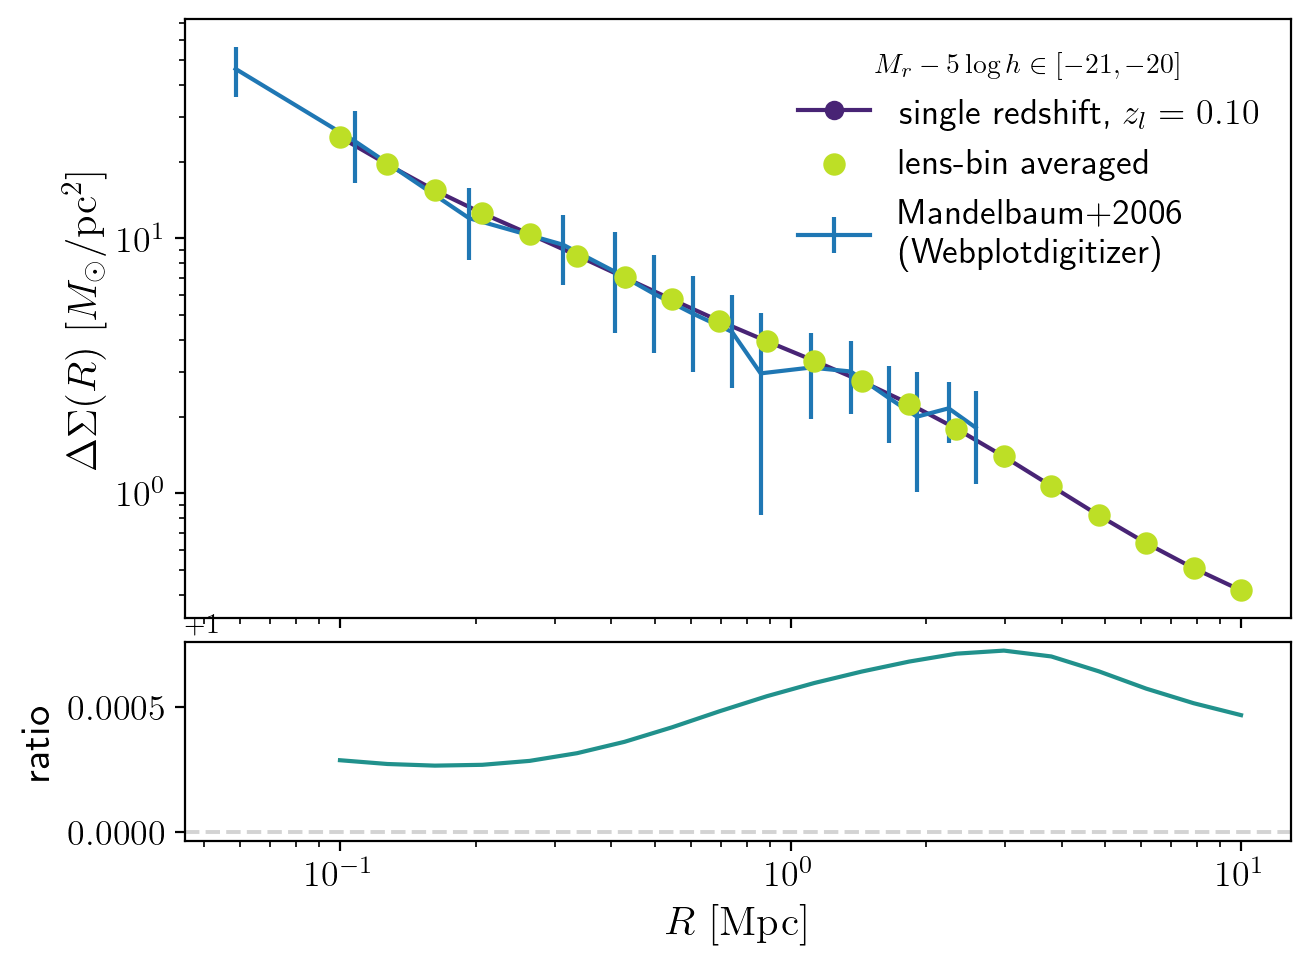
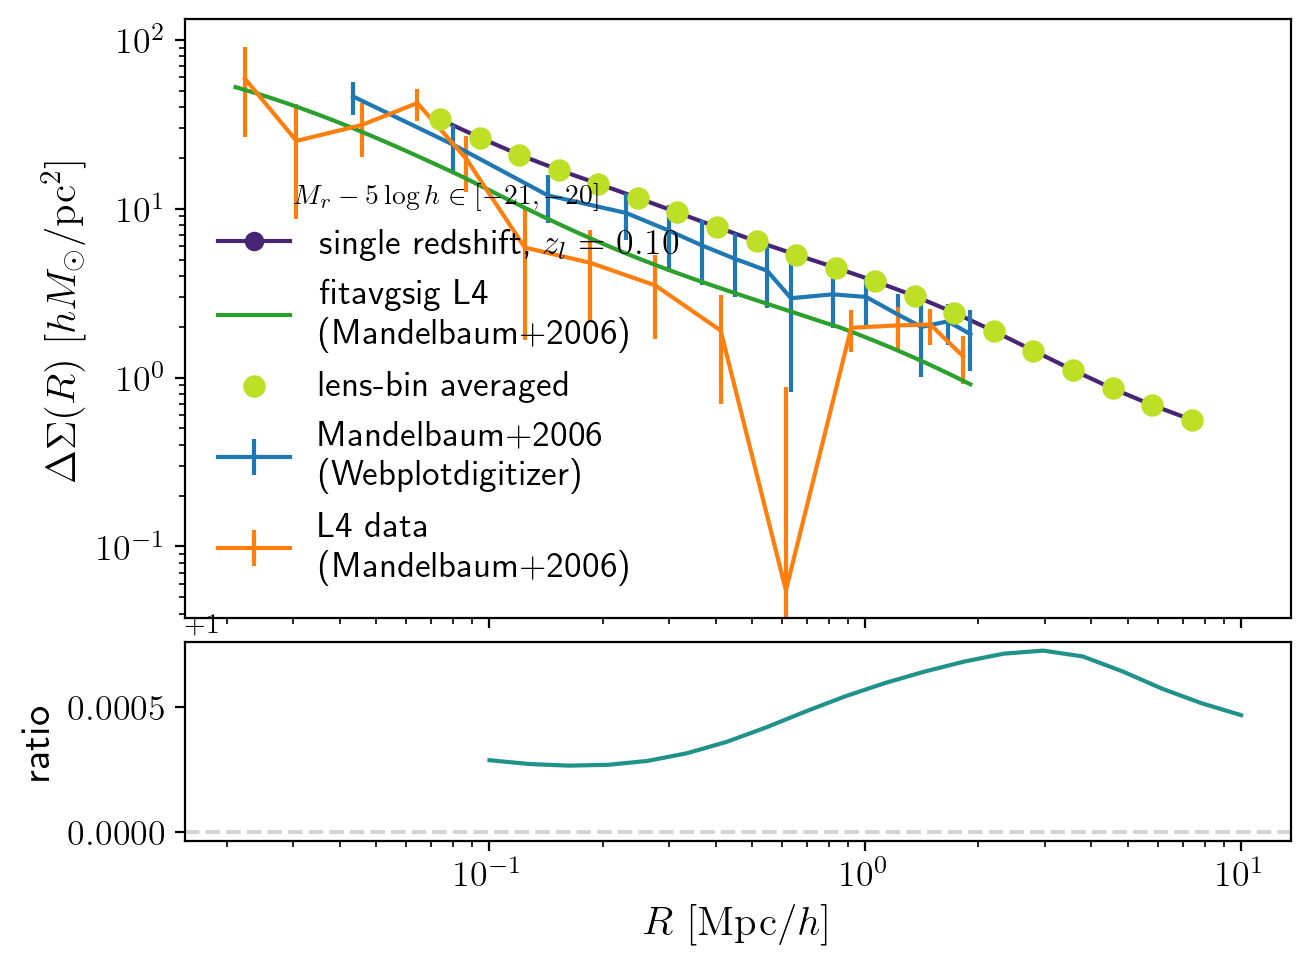
Documentation, benchmarking, modularisation

diff --git a/src/dsf/hod_cacciato.py b/src/dsf/hod_cacciato.py
@@ -1,22 +1,20 @@
 import numpy as np
 import pyccl as ccl
-from scipy.special import erf, gamma, gammaincc
+from scipy.special import erf
+
+from dsf.utils.special_func import safe_upper_inc_gamma
 
 __all__ = [
-    "safe_upper_gamma",
     "CacciatoHOD"
 ]
 
-@np.vectorize(excluded=["a"])
-def safe_upper_gamma(a, x):
-    if x <= 0 and a <= 0:
-        return np.inf
-    if a > 0:
-        return gammaincc(a, x) * gamma(a)
-    return (safe_upper_gamma(a + 1, x) - x**a * np.exp(-x)) / a
-
 class CacciatoHOD(ccl.halos.HaloProfileHOD):
     r"""
+    This class implements the galaxy-halo connection in the HOD framework based
+    on the Conditional Luminosity Function (CLF) model of Cacciato et al. 2013.
+    This framework is designed to model galaxy samples defined by luminosity
+    bins.
+    
     Args:
         mass_def: Halo mass definition (e.g., '200m' or a MassDef object).
 
@@ -65,13 +63,21 @@ class CacciatoHOD(ccl.halos.HaloProfileHOD):
     Additional nusance parameters in the CLF model:
 
     * **eta**: 
-      A multiplicative factor, as described in Cacciato+2013 for parent halo
-      concentration.
+      A multiplicative factor, as described in Cacciato+2013, which modifies
+      the parent halo concentration as follows:
+
+      .. math::
+
+          c_\mathrm{halo}(M) = (1+\eta) \times c_\mathrm{baseline}(M)
+
+      Here, :math:`c_\mathrm{baseline}` is the chosen c-M relation
+      which gets marginalised-over by `eta`. `eta` acts via the c-M wrapper class
+      passed above to the `concentration` parameter.
 
     * **R_s**: 
       A multiplicative factor, alters the concentration of the satellite
       distribution. R_s=1 corresponds to fiducial case, where satellites
-      density distr. follow the NFW profile of the parent halo.
+      density distribution follows the NFW profile of the parent halo.
 
     Note: 
         HODs are unitless. But the characteristic masses and luminosities hold
@@ -102,7 +108,7 @@ class CacciatoHOD(ccl.halos.HaloProfileHOD):
         # sample bin def
         log_L1, log_L2, 
         # hubble const
-        hval=0.739, 
+        h=0.739, 
         # CLF pars
         log_L0=9.95, log_M1=11.24, 
         gamma_1=3.18, gamma_2=0.245, 
@@ -118,7 +124,7 @@ class CacciatoHOD(ccl.halos.HaloProfileHOD):
         self._disable_vanilla_hod_parameters()
         
         # define inputs that don't change throughout the analysis.
-        self.hval = hval
+        self.h = h
         #self.cM = concentration #use if needed
         self.ns_independent = False
         # sample luminosity bin definition
@@ -152,9 +158,7 @@ class CacciatoHOD(ccl.halos.HaloProfileHOD):
 
     @log_L1.setter
     def log_L1(self, log_L1):
-        """
-        update faint end of sample luminosity bin log_L1
-        """
+        """Update faint end of sample luminosity bin log_L1"""
         self._log_L1 = log_L1
 
     @property
@@ -163,22 +167,23 @@ class CacciatoHOD(ccl.halos.HaloProfileHOD):
 
     @log_L2.setter
     def log_L2(self, log_L2):
-        """
-        update bright end of sample luminosity bin log_L2
-        """
+        """Update bright end of sample luminosity bin log_L2"""
         self._log_L2 = log_L2
 
     @property
-    def hval(self):
-        return self._hval
-    @hval.setter
-    def hval(self, hval):
-        self._hval = hval
-        # cache log10(h) whenever hval is altered.
-        self._log10_h = np.log10(hval)
+    def h(self):
+        return self._h
+    @h.setter
+    def h(self, h):
+        """Update the value of Hubble parameter"""
+        self._h = h
+        # cache log10(h) whenever h is altered.
+        self._log10_h = np.log10(h)
 
     def update_parameters(self, **kwargs):
-        r"""
+        r"""Helper method to update either a selective set of CLF parameters or
+        all of them at once.
+
         Args: 
             kwargs: dict of CLF free parameters
 
@@ -194,25 +199,14 @@ class CacciatoHOD(ccl.halos.HaloProfileHOD):
             same as the previous instantiation by passing just one parameter in
             kwargs dict.
 
-            To match the Cacciato parametrization:
-            set 
+        Note:
+            To match the Cacciato parametrization, set -
                 bg=bg_0, i.e., bg_p = 0,
                 bmax=1, i.e., bmax_0=1, bmax_p=0
-            redefine, 
+            and redefine, 
                 1/b_g = R_s (R_s is a multiplicative factor to the fiducial c-M
                 relation as defined in Cacciato. Here, R_s is not a CCL
                 definition of anything.)
-            Also,
-                the concentration of the parent halo is modified by a
-                `eta` like scaling muneral as,
-
-                .. math::
-
-                    c_\mathrm{halo}(M) = (1+\eta) \times c_\mathrm{baseline}(M)
-
-                Here, :math:`c_\mathrm{baseline}` is the chosen c-M relation
-                which gets marginalised over by `eta` via the argument
-                `concentration` above.
         """
 
         # Luminosity thresholds (calibrated as h-dependent: log10(L / [h^-2 Lsun]))
@@ -240,8 +234,9 @@ class CacciatoHOD(ccl.halos.HaloProfileHOD):
 
     def _log_Lc(self, M_h):
         """
-        Input:
+        Args:
             M_h: Mass in Msun/h
+
         Returns:
             Characteristic central luminosity in Lsun/h^2
         """
@@ -288,7 +283,7 @@ class CacciatoHOD(ccl.halos.HaloProfileHOD):
             [L-dL, L+dL] populated in a halo of mass M.
         """
         # internal conversion to Msun/h
-        M = M * self.hval
+        M = M * self.h
 
         log_Lc = self._log_Lc(M)
         denom = np.sqrt(2) * self.sigma_c
@@ -314,15 +309,15 @@ class CacciatoHOD(ccl.halos.HaloProfileHOD):
             between [L-dL, L+dL] populated in a halo of mass M.
         """
         # internal conversion to Msun/h
-        M = M * self.hval
+        M = M * self.h
 
         phi_star_s = 10 ** self._log_phi_star_s(M)
         log_Ls = self._log_L_star_s(M) #Lsun/h^2
         shape = (self.alpha_s + 1) / 2.0
         x_min = 2.0 * (self.log_L1 - log_Ls)
         x_max = 2.0 * (self.log_L2 - log_Ls)
-        integral_min = safe_upper_gamma(shape, 10 ** x_min)
-        integral_max = safe_upper_gamma(shape, 10 ** x_max)
+        integral_min = safe_upper_inc_gamma(shape, 10 ** x_min)
+        integral_max = safe_upper_inc_gamma(shape, 10 ** x_max)
         return (phi_star_s / 2.0) * (integral_min - integral_max)
 
 

diff --git a/benchmarks/test_cacciato.py b/benchmarks/test_cacciato.py
@@ -23,7 +23,7 @@ if __name__=="__main__":
     magfaint, magbright = -20,-21
     log_L1 = np.log10(magnitude_to_luminosity(magfaint)) #log10( L1 / [Lsun/h^2] )
     log_L2 = np.log10(magnitude_to_luminosity(magbright)) #log10( L2 / [Lsun/h^2] )
-    hodparams = dict(log_L1=log_L1, log_L2=log_L2, hval=cosmo_pars['h'], **cacciato_med_pars)
+    hodparams = dict(log_L1=log_L1, log_L2=log_L2, h=cosmo_pars['h'], **cacciato_med_pars)
 
     print(cosmo_pars)
     cosmo = ccl.Cosmology(**cosmo_pars)
@@ -80,8 +80,13 @@ if __name__=="__main__":
     # Get the benchmarking data: Mandelbaum 2006
     import pandas as pd
     # note the data units for ESD:hMsun/pc^2, r:kpc/h
-    df = pd.read_csv(f"{benchmark_indir}/esd_data_points_mandelbaum2006.csv", comment="#")
-    err = df["esd_high"] - df["esd_low"] # data errorbar
+    ddf = pd.read_csv(f"{benchmark_indir}/L4_esd_data_points_mandelbaum2006_webplotdigitizer.csv", comment="#")
+    err = ddf["esd_high"] - ddf["esd_low"] # data errorbar
+
+    # theory prediction from Mandelbaum+2005
+    df = pd.read_csv(f"{benchmark_indir}/rebin.lum.all.L4.lowfdev.csv", sep=" ", comment="#")
+    # real data
+    tdf = pd.read_csv(f"{benchmark_indir}/fitavgsig.hh.all.L4.lowfdev.csv", sep=" ", comment="#")
     # -----------------------------------------------
     
     colors = cmr.take_cmap_colors(
@@ -100,38 +105,37 @@ if __name__=="__main__":
     )
     
     ax.plot(
-        r,
-        delta_sigma,
+        r*cosmo_pars['h'],  # Mpc/h
+        delta_sigma/cosmo_pars['h'], # hMsun/pc^2
         color=colors[0],
         marker="o",
         markersize=6,
         label=rf"single redshift, $z_l={z_lens:.2f}$",
     )
     
-    print(cosmo_pars['h'])
-    print(np.c_[df["r"]/1000, df["r"]/1000/cosmo_pars['h']])
-    print(np.c_[df["esd_mid"], df["esd_mid"]*cosmo_pars['h']])
-    
-    #ax.errorbar(
-    #    df["r"]/1000/cosmo_pars['h'],
-    #    df["esd_mid"]*cosmo_pars['h'],
-    #    yerr=err*cosmo_pars['h'],
-    #    label="Mandelbaum+2006(Webplotdigitizer)"
-    #)
-    
-    # ignoring the h-factor conversion between DSF and Mandelbaum dataset
-    # it might be possible that only delta_sigma predication is off by an h
-    # factor. But the radius units are already in Mpc.
     ax.errorbar(
-        df["r"]/1000/cosmo_pars['h'],
-        df["esd_mid"],
+        ddf["r"]/1000, # Mpc/h
+        ddf["esd"], # hMsun/pc^2
         yerr=err,
         label="Mandelbaum+2006\n(Webplotdigitizer)"
     )
+
+    ax.errorbar(
+        df.r/1000, # Mpc/h
+        df.esd, # hMsun/pc^2
+        yerr=df.err,
+        label="L4 data\n(Mandelbaum+2006)"
+    )
+
+    ax.plot(
+        tdf.r, # Mpc/h
+        tdf.esd, # hMsun/pc^2
+        label="fitavgsig L4\n(Mandelbaum+2006)"
+    )
     
     ax.scatter(
-        r,
-        delta_sigma_bin,
+        r*cosmo_pars['h'], # Mpc/h
+        delta_sigma_bin/cosmo_pars['h'], # hMsun/pc^2
         color=colors[2],
         s=50,
         label="lens-bin averaged",
@@ -141,7 +145,7 @@ if __name__=="__main__":
     ax.set_xscale("log")
     ax.set_yscale("log")
     
-    ax.set_ylabel(r"$\Delta\Sigma(R)\ [M_\odot / {\rm pc}^2]$", fontsize=15)
+    ax.set_ylabel(r"$\Delta\Sigma(R)\ [hM_\odot / {\rm pc}^2]$", fontsize=15)
     ax.tick_params(axis="both", which="major", labelsize=13)
     ax.tick_params(axis="both", which="minor", labelsize=11)
     ax.legend(fontsize=13, frameon=False, title=r"$M_r-5\log h \in [-21,-20]$")
@@ -155,7 +159,7 @@ if __name__=="__main__":
     
     ax_res.set_xscale("log")
     ax_res.set_ylabel("ratio", fontsize=15)
-    ax_res.set_xlabel(r"$R\ [{\rm Mpc}]$", fontsize=15)
+    ax_res.set_xlabel(r"$R\ [{\rm Mpc}/h]$", fontsize=15)
     ax_res.tick_params(axis="both", which="major", labelsize=13)
     ax_res.tick_params(axis="both", which="minor", labelsize=11)
     

diff --git a/src/dsf/utils/special_func.py b/src/dsf/utils/special_func.py
@@ -1,0 +1,42 @@
+"""Special functions and their integrals"""
+
+from __future__ import annotations
+
+import numpy as np
+from scipy.special import gamma, gammaincc
+
+__all__ = [
+    "upper_inc_gamma",
+    "safe_upper_inc_gamma",
+]
+
+def upper_inc_gamma(a, x):
+    r"""Computes the upper incomplete gamma function :math:`\Gamma(a, x)`
+    :math:`\forall a \in  \mathbb{R}` and :math:`x \ge 0`.
+
+    .. math::
+
+        \Gamma(a, x) = \int_x^\infty t^{a - 1}e^{-t} dt.
+
+    This function uses the recurrence relation,
+
+    .. math::
+    
+        \Gamma(a, x) = \frac{\Gamma(a+1, x) - x^a \cdot e^{-x}}{a}
+    
+    to handle :math:`a \lt 0` cases, where scipy's implementation returns nan.
+
+    Parameters:
+        a (float): The shape parameter, can be any real number.
+        x (float): The lower limit of upper-gamma function integral.
+        
+    Returns: 
+        a float
+    """
+    if x <= 0 and a <= 0:
+        return np.inf
+    if a > 0:
+        return gammaincc(a, x) * gamma(a)
+    return (upper_inc_gamma(a + 1, x) - (x ** a) * np.exp(-x)) / a
+
+safe_upper_inc_gamma = np.vectorize(upper_inc_gamma, excluded=["a"])

diff --git a/src/dsf/pk2d_cacciato_hod.py b/src/dsf/pk2d_cacciato_hod.py
@@ -24,8 +24,8 @@ __all__ = [
 
 class ScaledConcentration(ccl.halos.Concentration):
     """
-    A CCL concentration class wrapper that multiplies a baseline
-    concentration relation by a free parameter (1+eta).
+    A CCL concentration class wrapper that scales a baseline concentration-Mass
+    relation via a free parameter `eta` as (1+eta).
     """
 
     name = 'Scaled_cM_Cacciato2013'

diff --git a/docs/api/dsf.utils.rst b/docs/api/dsf.utils.rst
@@ -9,6 +9,7 @@ Submodules
 
    dsf.utils.converters
    dsf.utils.integrators
+   dsf.utils.special_func
    dsf.utils.thread_limits
    dsf.utils.types
    dsf.utils.validators

diff --git a/docs/api/dsf.utils.special_func.rst b/docs/api/dsf.utils.special_func.rst
@@ -1,0 +1,7 @@
+dsf.utils.special\_func module
+==============================
+
+.. automodule:: dsf.utils.special_func
+   :members:
+   :undoc-members:
+   :show-inheritance:
